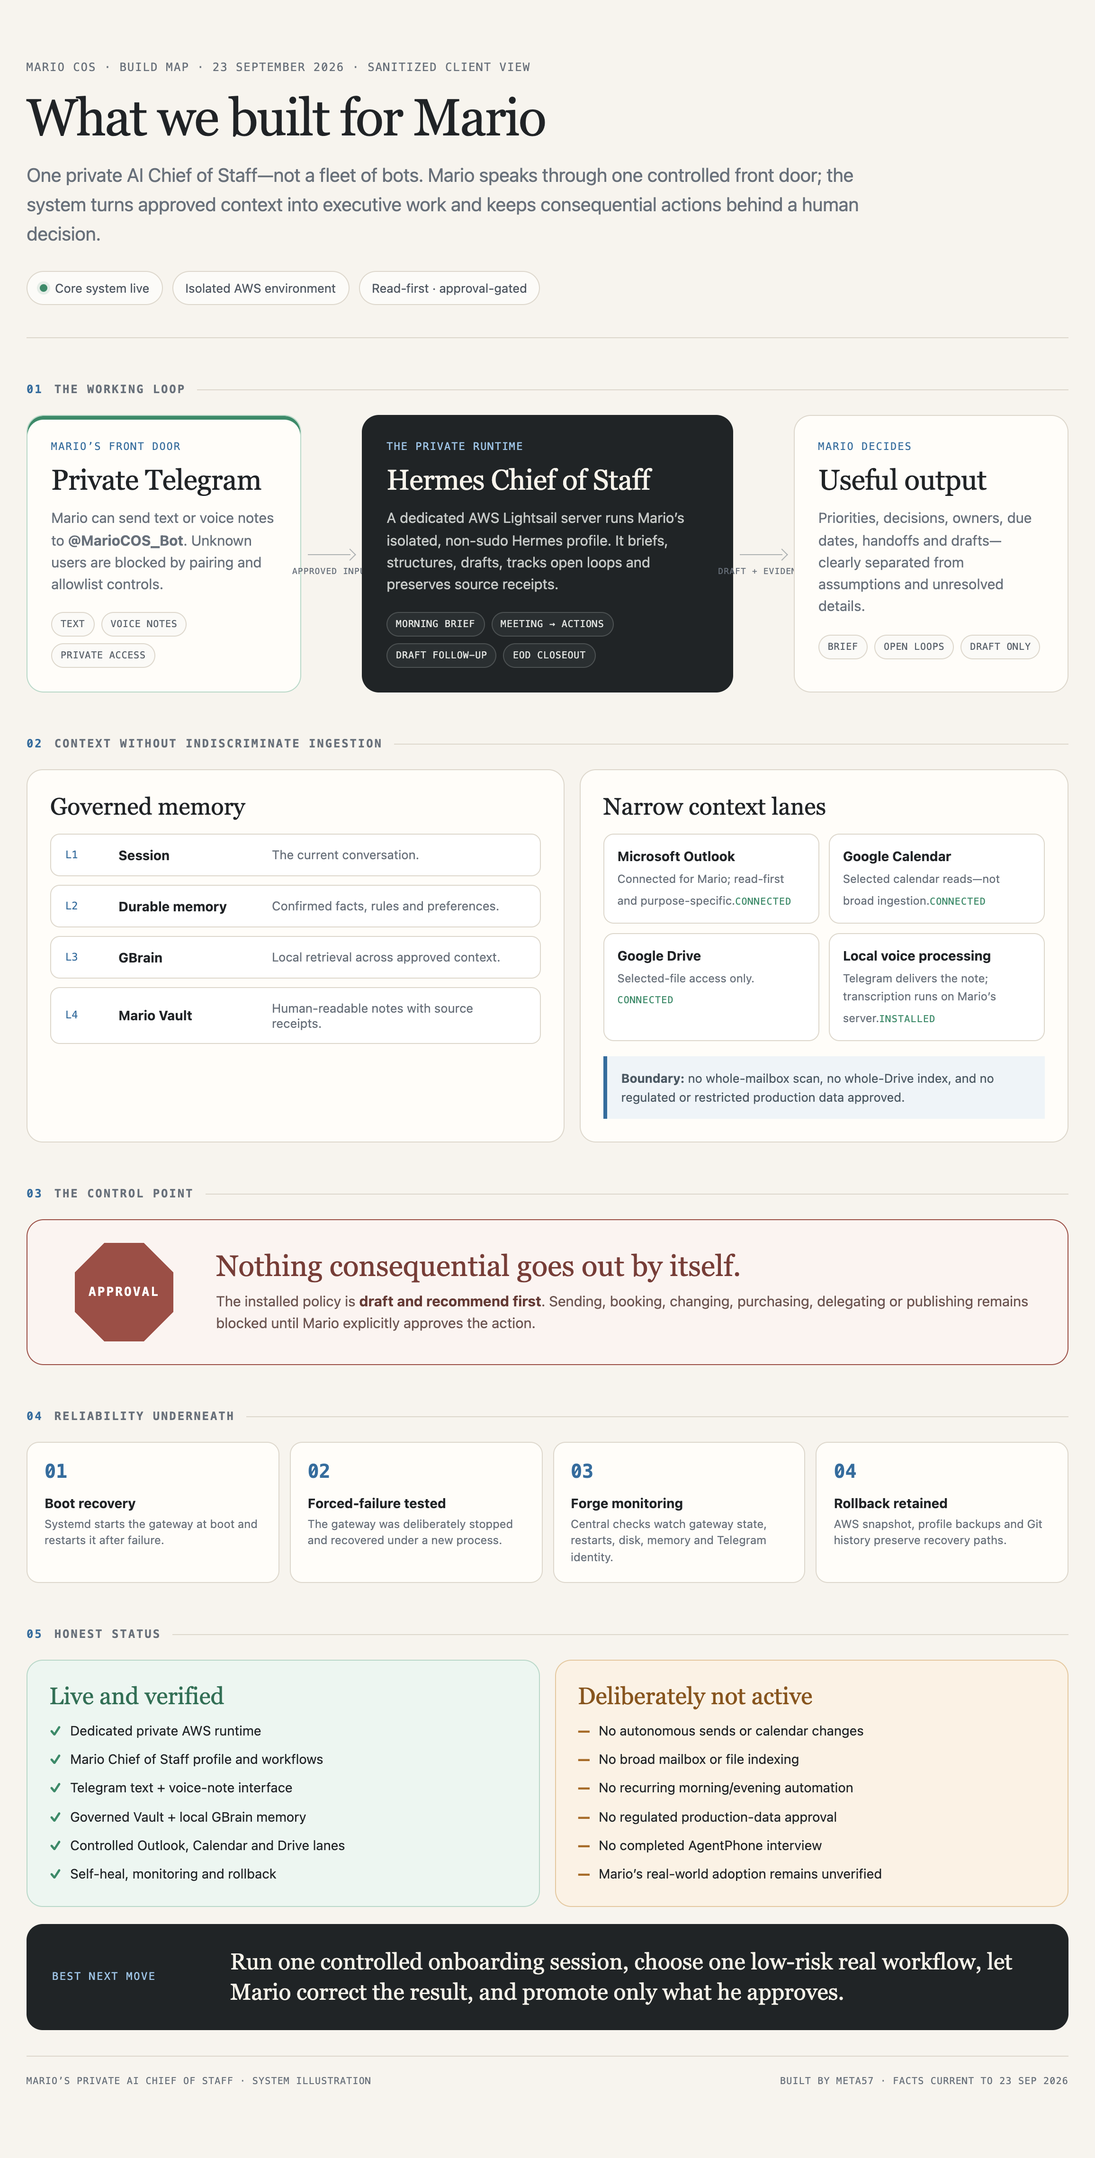
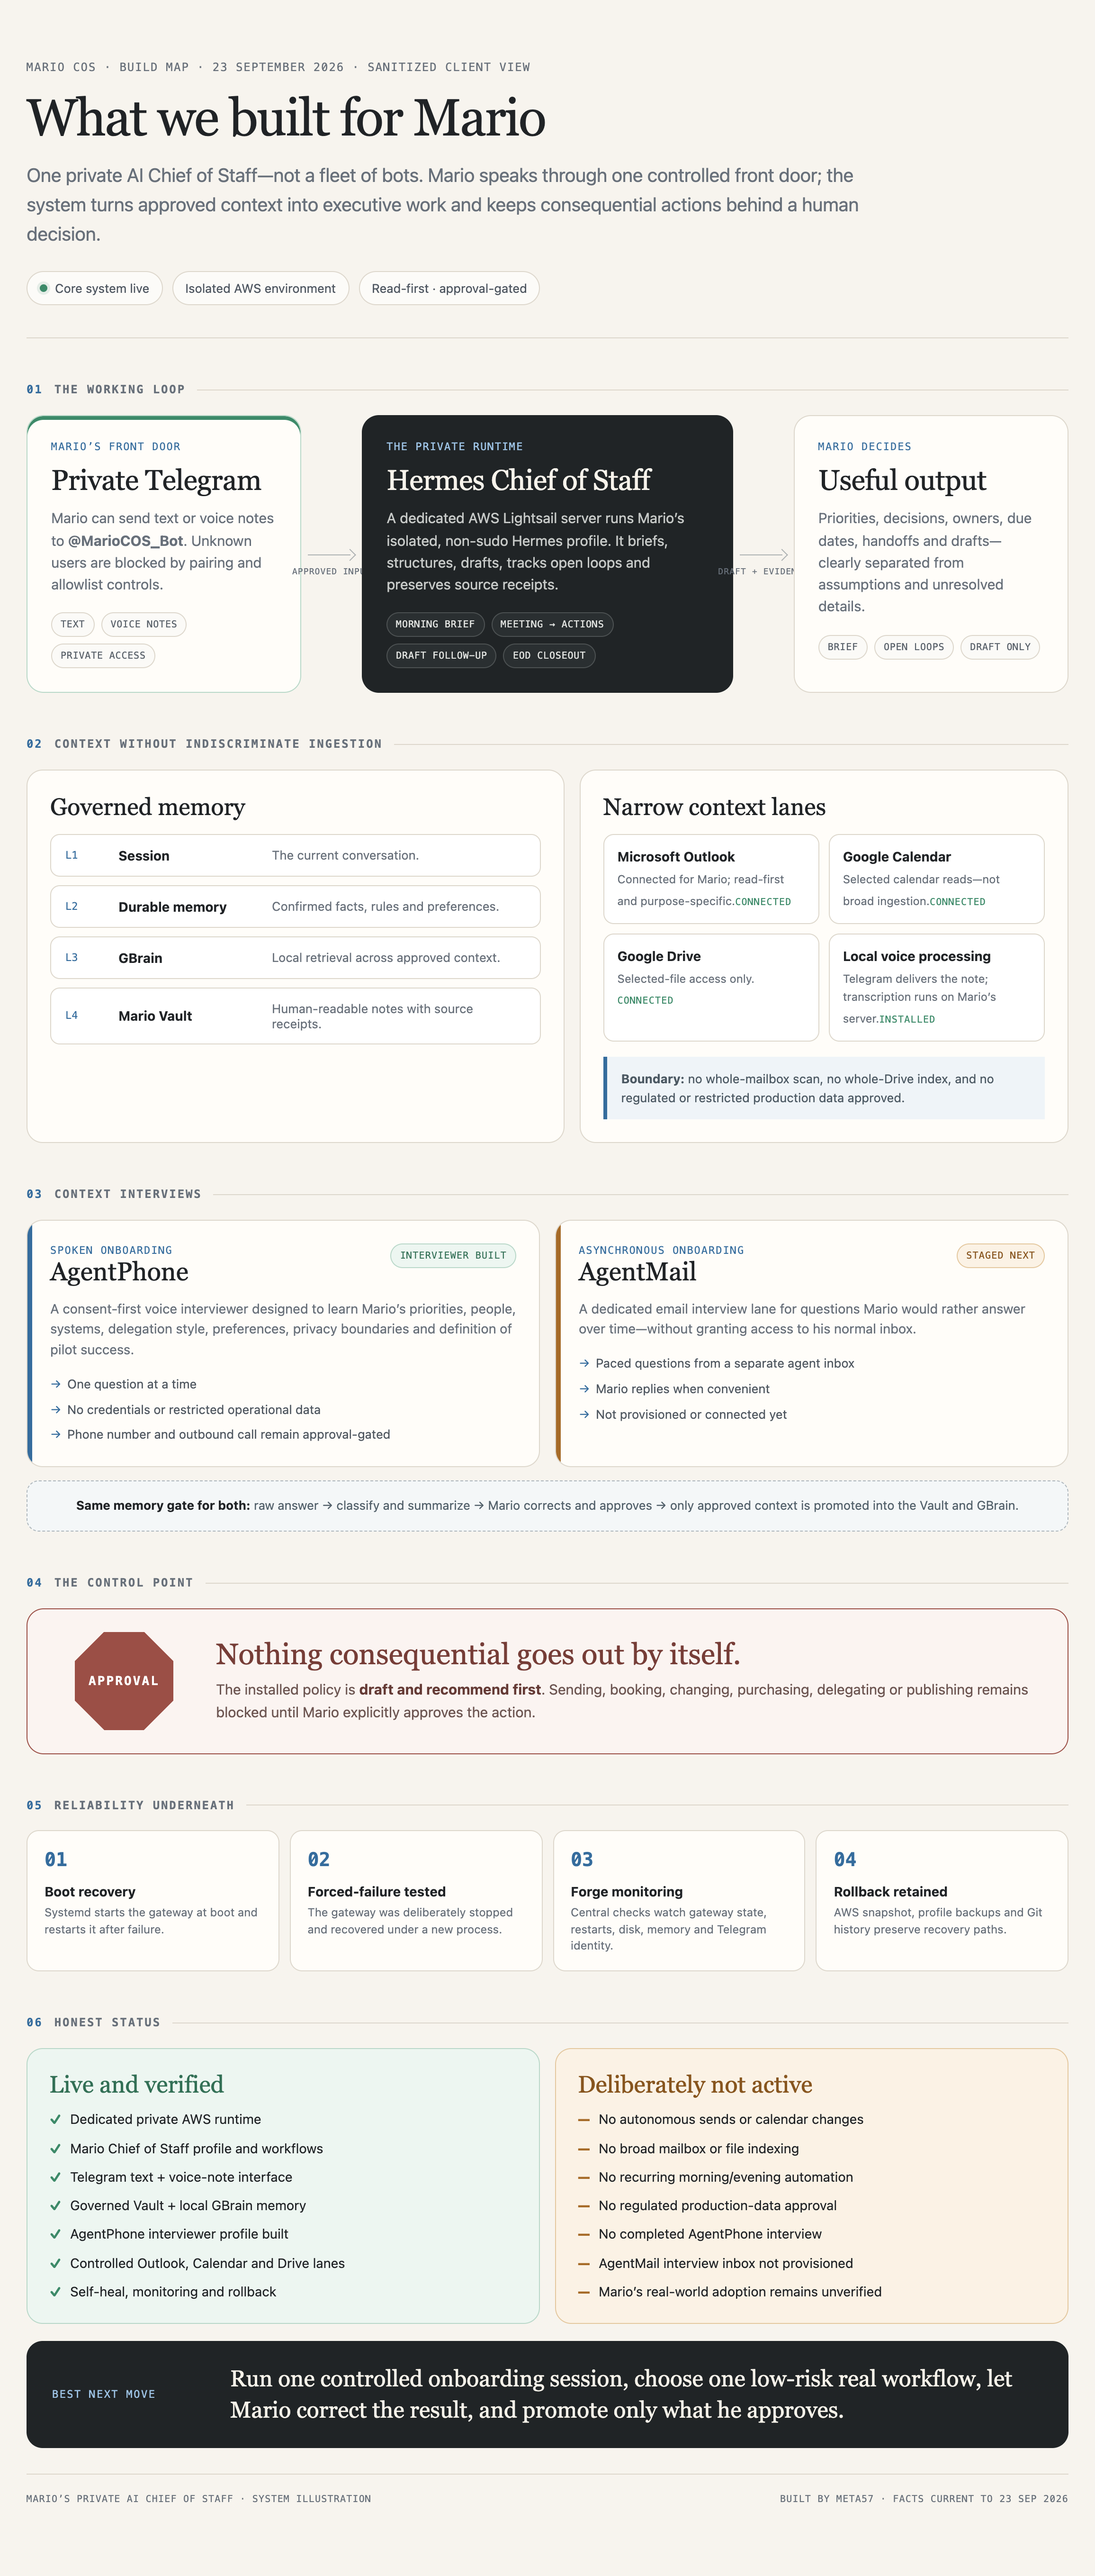
Add AgentPhone and AgentMail context interview paths

Changed region(s): [[0.0, 0.0312, 0.9965, 0.9662], [0.7163, 0.6545, 0.9031, 0.748]]

diff --git a/mario-cos-system-map.html b/mario-cos-system-map.html
@@ -56,6 +56,16 @@ h1{font:500 55px/1.04 var(--serif);letter-spacing:-.028em;margin:16px 0 16px;max
 .connector b{display:block;font-size:14px;margin-bottom:5px}.connector small{color:var(--muted);font-size:12px;line-height:1.4}
 .connector .state{display:inline-block;margin-top:9px;font:10px var(--mono);letter-spacing:.06em;text-transform:uppercase;color:var(--green)}
 .guardrail{margin-top:16px;border-left:4px solid var(--blue);padding:13px 15px;background:#eff4f8;color:#4c5963;font-size:13px;line-height:1.55}
+.interviews{display:grid;grid-template-columns:1fr 1fr;gap:16px}
+.interview{background:var(--card);border:1px solid var(--line);border-radius:17px;padding:24px;position:relative;overflow:hidden}
+.interview:before{content:"";position:absolute;left:0;top:0;bottom:0;width:5px;background:var(--blue)}
+.interview.mail:before{background:var(--amber)}
+.interview-head{display:flex;justify-content:space-between;gap:16px;align-items:start}
+.interview h3{font:500 27px/1.12 var(--serif);margin:0}.interview p{font-size:14px;line-height:1.55;color:var(--muted);margin:12px 0 0}
+.badge{font:10px/1.2 var(--mono);letter-spacing:.06em;text-transform:uppercase;border-radius:999px;padding:6px 9px;white-space:nowrap}
+.badge.built{color:#326f55;background:var(--green-bg);border:1px solid #b9d8c9}.badge.planned{color:#87551e;background:var(--amber-bg);border:1px solid #e4c89f}
+.interview ul{list-style:none;margin:16px 0 0;padding:0;display:grid;gap:8px}.interview li{font-size:13px;line-height:1.45;color:#505861;padding-left:18px;position:relative}.interview li:before{content:"→";position:absolute;left:0;color:var(--blue)}
+.promotion{margin-top:14px;border:1px dashed #aeb7bd;border-radius:13px;padding:16px;text-align:center;font-size:13px;line-height:1.5;color:#53616b;background:#f4f7f8}.promotion b{color:var(--ink)}
 .gate{display:grid;grid-template-columns:150px 1fr;gap:22px;align-items:center;border:1.5px solid var(--red);border-radius:18px;background:#fbf4f1;padding:24px 27px}
 .stop{width:104px;height:104px;display:grid;place-items:center;margin:auto;background:var(--red);color:white;font:700 13px var(--mono);letter-spacing:.12em;clip-path:polygon(30% 0,70% 0,100% 30%,100% 70%,70% 100%,30% 100%,0 70%,0 30%)}
 .gate h2{font:500 31px/1.1 var(--serif);margin:0 0 8px;color:#763d37}.gate p{font-size:15px;line-height:1.55;color:#6d5652;margin:0}.gate b{color:#643a35}
@@ -74,7 +84,7 @@ footer{margin-top:27px;padding-top:18px;border-top:1px solid var(--line);display
 @media(max-width:850px){
   body{padding:32px 0 48px}.page{width:min(100% - 28px,680px)}h1{font-size:40px}.deck{font-size:17px}
   .flow{grid-template-columns:1fr}.arrow{height:54px}.arrow:before{left:50%;right:auto;top:5px;bottom:12px;width:1px;height:auto}.arrow:after{right:auto;left:calc(50% - 4px);top:auto;bottom:9px;transform:rotate(135deg)}.arrow span{display:none}
-  .stack,.status-row{grid-template-columns:1fr}.layer{grid-template-columns:36px 1fr}.layer span:last-child{grid-column:2}.ops{grid-template-columns:1fr 1fr}.gate,.bottomline{grid-template-columns:1fr}.stop{width:72px;height:72px}.connector-list{grid-template-columns:1fr}footer{flex-direction:column}
+  .stack,.status-row,.interviews{grid-template-columns:1fr}.layer{grid-template-columns:36px 1fr}.layer span:last-child{grid-column:2}.ops{grid-template-columns:1fr 1fr}.gate,.bottomline{grid-template-columns:1fr}.stop{width:72px;height:72px}.connector-list{grid-template-columns:1fr}footer{flex-direction:column}
 }
 </style>
 </head>
@@ -139,7 +149,24 @@ footer{margin-top:27px;padding-top:18px;border-top:1px solid var(--line);display
 </section>
 
 <section class="section">
-  <div class="section-label"><span class="num">03</span> The control point</div>
+  <div class="section-label"><span class="num">03</span> Context interviews</div>
+  <div class="interviews">
+    <article class="interview">
+      <div class="interview-head"><div><div class="kicker">Spoken onboarding</div><h3>AgentPhone</h3></div><span class="badge built">Interviewer built</span></div>
+      <p>A consent-first voice interviewer designed to learn Mario’s priorities, people, systems, delegation style, preferences, privacy boundaries and definition of pilot success.</p>
+      <ul><li>One question at a time</li><li>No credentials or restricted operational data</li><li>Phone number and outbound call remain approval-gated</li></ul>
+    </article>
+    <article class="interview mail">
+      <div class="interview-head"><div><div class="kicker">Asynchronous onboarding</div><h3>AgentMail</h3></div><span class="badge planned">Staged next</span></div>
+      <p>A dedicated email interview lane for questions Mario would rather answer over time—without granting access to his normal inbox.</p>
+      <ul><li>Paced questions from a separate agent inbox</li><li>Mario replies when convenient</li><li>Not provisioned or connected yet</li></ul>
+    </article>
+  </div>
+  <div class="promotion"><b>Same memory gate for both:</b> raw answer → classify and summarize → Mario corrects and approves → only approved context is promoted into the Vault and GBrain.</div>
+</section>
+
+<section class="section">
+  <div class="section-label"><span class="num">04</span> The control point</div>
   <article class="gate">
     <div class="stop">APPROVAL</div>
     <div><h2>Nothing consequential goes out by itself.</h2><p>The installed policy is <b>draft and recommend first</b>. Sending, booking, changing, purchasing, delegating or publishing remains blocked until Mario explicitly approves the action.</p></div>
@@ -147,7 +174,7 @@ footer{margin-top:27px;padding-top:18px;border-top:1px solid var(--line);display
 </section>
 
 <section class="section">
-  <div class="section-label"><span class="num">04</span> Reliability underneath</div>
+  <div class="section-label"><span class="num">05</span> Reliability underneath</div>
   <div class="ops">
     <article class="op"><div class="icon">01</div><h4>Boot recovery</h4><p>Systemd starts the gateway at boot and restarts it after failure.</p></article>
     <article class="op"><div class="icon">02</div><h4>Forced-failure tested</h4><p>The gateway was deliberately stopped and recovered under a new process.</p></article>
@@ -157,10 +184,10 @@ footer{margin-top:27px;padding-top:18px;border-top:1px solid var(--line);display
 </section>
 
 <section class="section">
-  <div class="section-label"><span class="num">05</span> Honest status</div>
+  <div class="section-label"><span class="num">06</span> Honest status</div>
   <div class="status-row">
-    <article class="status-card on"><h3>Live and verified</h3><ul><li>Dedicated private AWS runtime</li><li>Mario Chief of Staff profile and workflows</li><li>Telegram text + voice-note interface</li><li>Governed Vault + local GBrain memory</li><li>Controlled Outlook, Calendar and Drive lanes</li><li>Self-heal, monitoring and rollback</li></ul></article>
-    <article class="status-card off"><h3>Deliberately not active</h3><ul><li>No autonomous sends or calendar changes</li><li>No broad mailbox or file indexing</li><li>No recurring morning/evening automation</li><li>No regulated production-data approval</li><li>No completed AgentPhone interview</li><li>Mario’s real-world adoption remains unverified</li></ul></article>
+    <article class="status-card on"><h3>Live and verified</h3><ul><li>Dedicated private AWS runtime</li><li>Mario Chief of Staff profile and workflows</li><li>Telegram text + voice-note interface</li><li>Governed Vault + local GBrain memory</li><li>AgentPhone interviewer profile built</li><li>Controlled Outlook, Calendar and Drive lanes</li><li>Self-heal, monitoring and rollback</li></ul></article>
+    <article class="status-card off"><h3>Deliberately not active</h3><ul><li>No autonomous sends or calendar changes</li><li>No broad mailbox or file indexing</li><li>No recurring morning/evening automation</li><li>No regulated production-data approval</li><li>No completed AgentPhone interview</li><li>AgentMail interview inbox not provisioned</li><li>Mario’s real-world adoption remains unverified</li></ul></article>
   </div>
   <div class="bottomline"><div class="label">Best next move</div><p>Run one controlled onboarding session, choose one low-risk real workflow, let Mario correct the result, and promote only what he approves.</p></div>
 </section>
